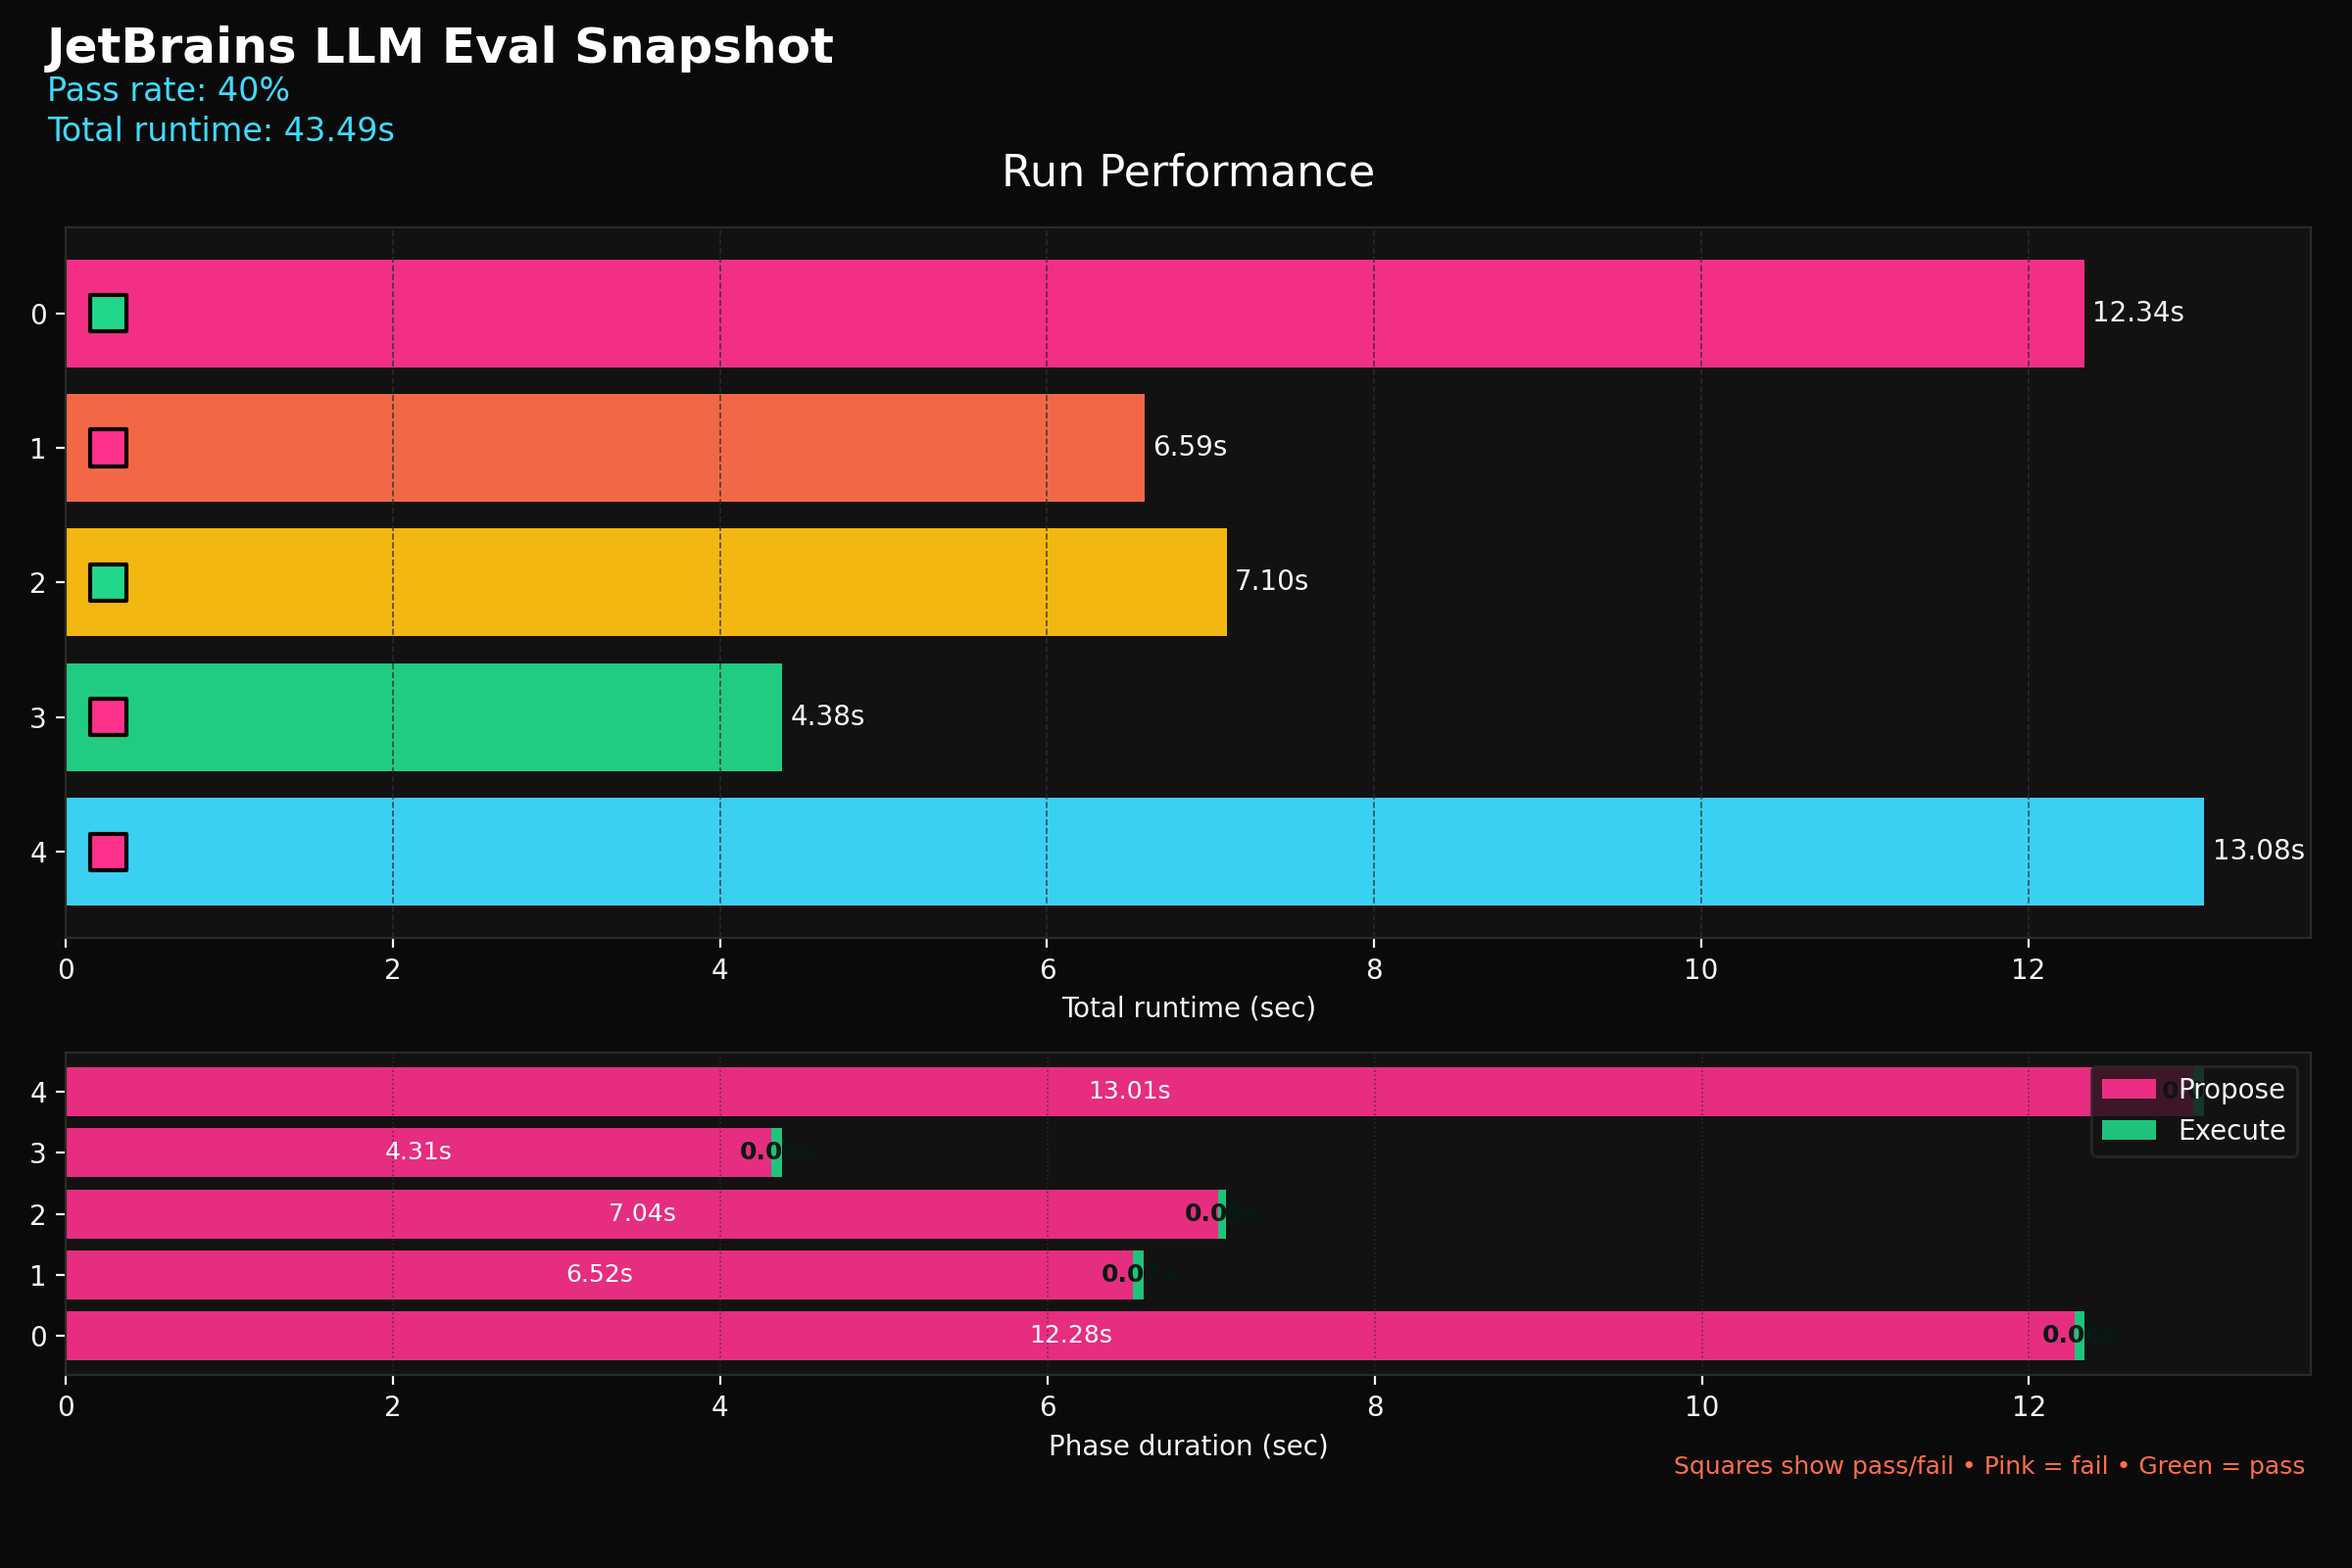
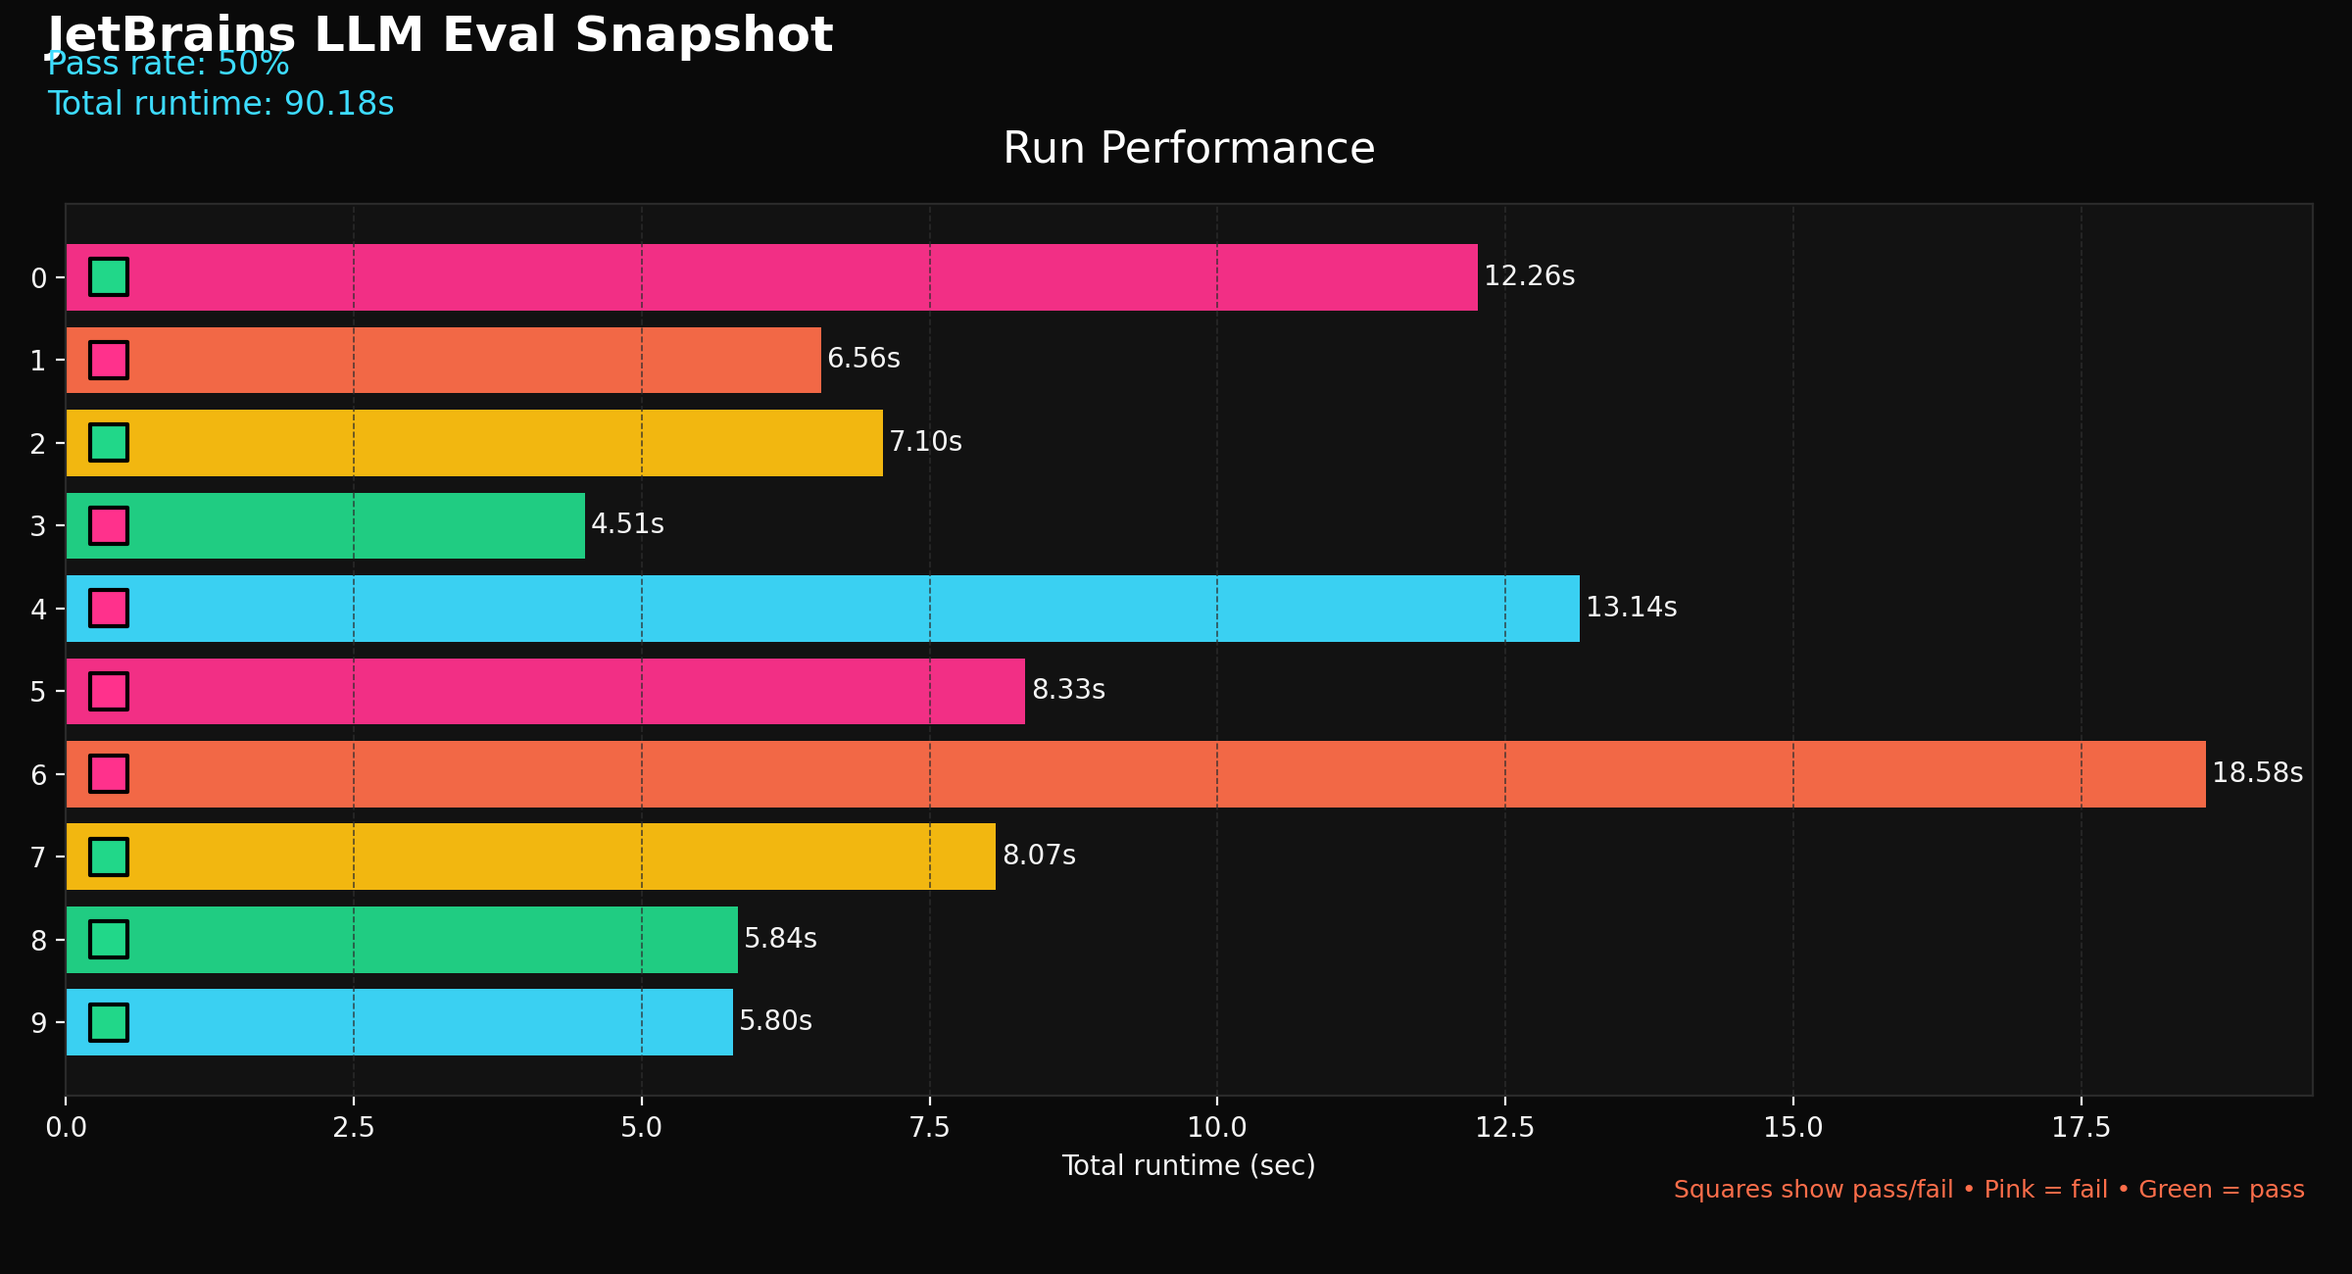
remove phase duration

diff --git a/src/visualize_results.py b/src/visualize_results.py
@@ -23,45 +23,33 @@ def build_color_cycle(count: int) -> List[str]:
 
 def extract_metrics(
     results: List[dict],
-) -> Tuple[List[str], List[bool], List[float], List[float], List[float]]:
+) -> Tuple[List[str], List[bool], List[float]]:
     task_ids = [entry["task_id"].split("/")[-1] for entry in results]
     passed = [bool(entry.get("passed")) for entry in results]
     runtime = [float(entry.get("runtime_sec", 0.0)) for entry in results]
-    propose = [
-        float(entry.get("timings_sec", {}).get("t_propose_sec", 0.0))
-        for entry in results
-    ]
-    execute = [
-        float(entry.get("timings_sec", {}).get("t_execute_sec", 0.0))
-        for entry in results
-    ]
-    return task_ids, passed, runtime, propose, execute
+    return task_ids, passed, runtime
 
 
 def plot_results(
     task_ids: List[str],
     passed: List[bool],
     runtime: List[float],
-    propose: List[float],
-    execute: List[float],
     output: Path,
 ) -> None:
     color_cycle = build_color_cycle(len(task_ids))
     pass_colors = ["#21D789" if flag else "#FF318C" for flag in passed]
 
-    fig, (ax_runtime, ax_timings) = plt.subplots(
-        2,
+    fig, ax_runtime = plt.subplots(
         1,
-        figsize=(12, 8),
-        gridspec_kw={"height_ratios": [2.2, 1]},
+        1,
+        figsize=(12, 6.5),
         facecolor=JETBRAINS_BACKGROUND,
     )
 
-    for ax in (ax_runtime, ax_timings):
-        ax.set_facecolor(JETBRAINS_PANEL)
-        ax.tick_params(colors="#F5F5F5")
-        for spine in ax.spines.values():
-            spine.set_color("#2A2A2A")
+    ax_runtime.set_facecolor(JETBRAINS_PANEL)
+    ax_runtime.tick_params(colors="#F5F5F5")
+    for spine in ax_runtime.spines.values():
+        spine.set_color("#2A2A2A")
 
     # Runtime bars with glow effect via shadowed patches
     bars = ax_runtime.barh(
@@ -96,56 +84,6 @@ def plot_results(
         linewidths=1.5,
         zorder=3,
     )
-
-    # Timing breakdown stacked bars
-    propose_bars = ax_timings.barh(
-        task_ids,
-        propose,
-        color="#FF318C",
-        alpha=0.9,
-        label="Propose",
-    )
-    ax_timings.barh(
-        task_ids,
-        execute,
-        left=propose,
-        color="#21D789",
-        alpha=0.9,
-        label="Execute",
-    )
-
-    ax_timings.set_xlabel("Phase duration (sec)", color="#F5F5F5")
-    ax_timings.grid(
-        True, axis="x", linestyle=":", linewidth=0.6, color="#313131", alpha=0.7
-    )
-    ax_timings.legend(
-        loc="upper right",
-        facecolor=JETBRAINS_PANEL,
-        edgecolor="#2A2A2A",
-        labelcolor="#F5F5F5",
-    )
-
-    for idx, bar in enumerate(propose_bars):
-        ax_timings.text(
-            bar.get_width() / 2,
-            bar.get_y() + bar.get_height() / 2,
-            f"{propose[idx]:.2f}s",
-            color="#FFFFFF",
-            ha="center",
-            va="center",
-            fontsize=9,
-        )
-    for idx, (prop, exec_time) in enumerate(zip(propose, execute)):
-        ax_timings.text(
-            prop + exec_time / 2,
-            idx,
-            f"{exec_time:.2f}s",
-            color="#041B15",
-            ha="center",
-            va="center",
-            fontsize=9,
-            fontweight="bold",
-        )
 
     pass_rate = sum(passed) / len(passed) if passed else 0.0
     total_runtime = sum(runtime)
@@ -204,8 +142,8 @@ def main() -> None:
     if not results:
         raise SystemExit(f"No results found in {args.input}")
 
-    data = extract_metrics(results)
-    plot_results(*data, output=args.output)
+    task_ids, passed, runtime = extract_metrics(results)
+    plot_results(task_ids, passed, runtime, output=args.output)
     print(f"Visualization saved to {args.output}")
 
 
